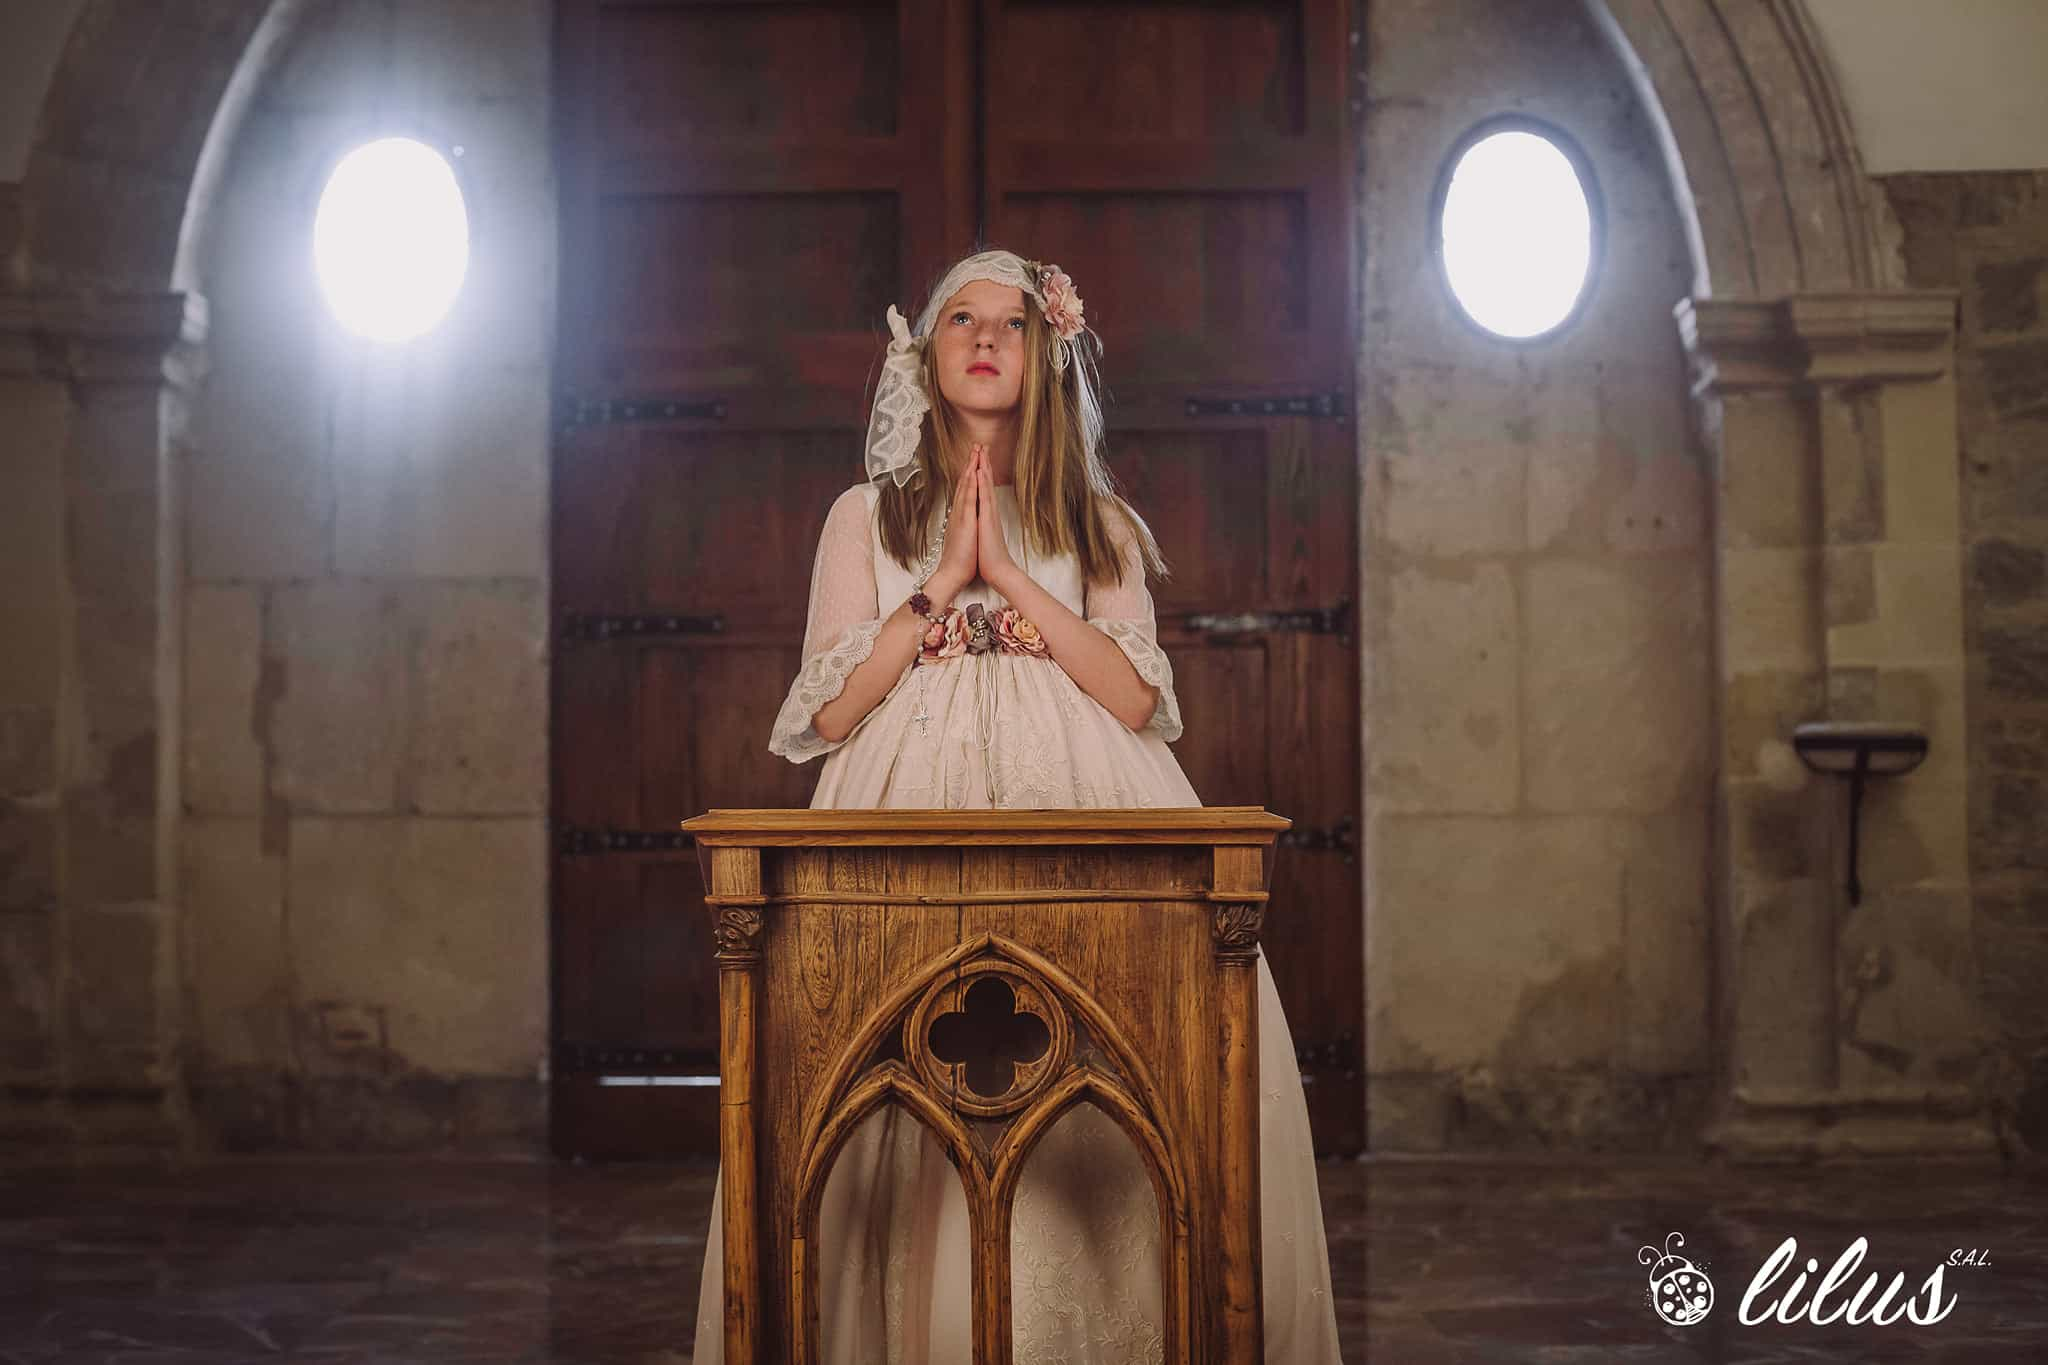
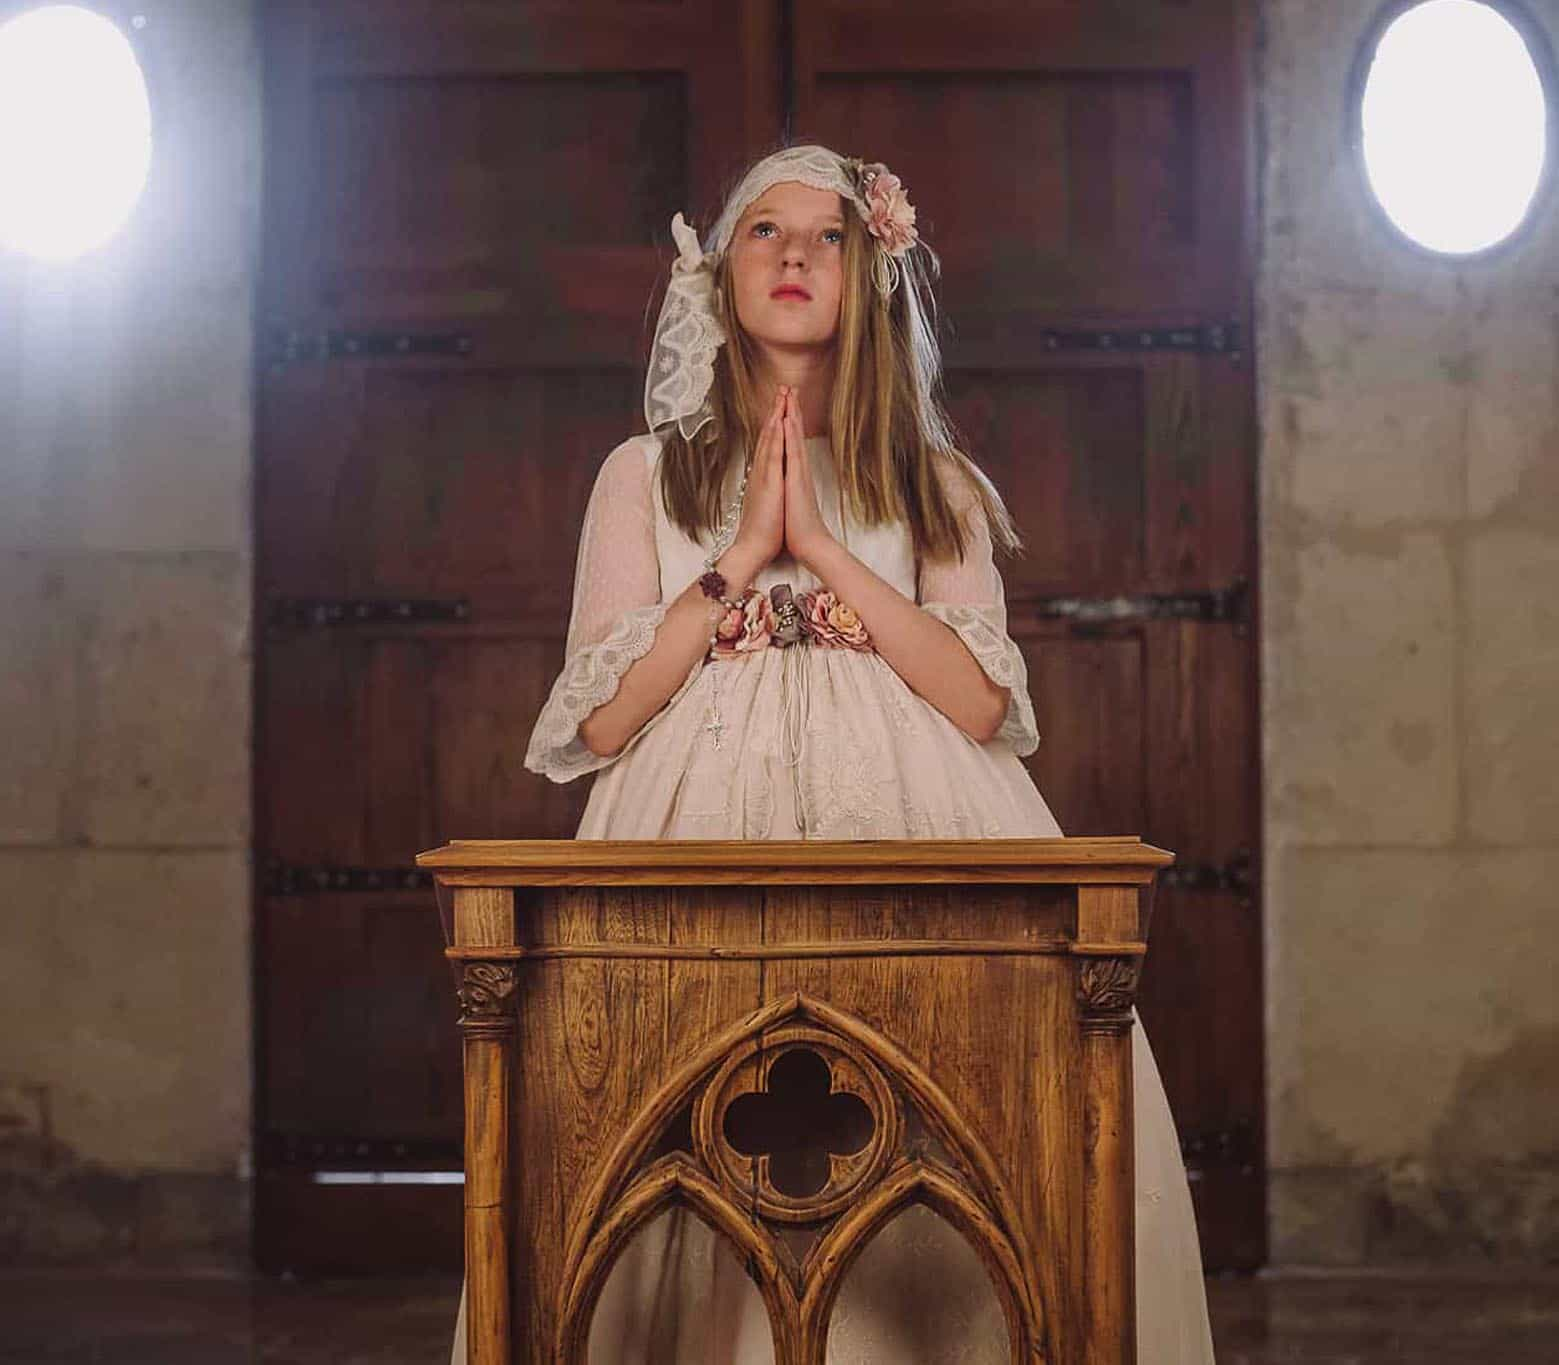
img

diff --git a/lilus/inicio/templates/inicio/base.html b/lilus/inicio/templates/inicio/base.html
@@ -63,7 +63,7 @@
 							{% endif %}
 						{% endfor %}
 						<!-- foto del menu -->
-						<div class="imagenMenu" style="background: url({% static 'inicio/img/portadaComunion.png'%}) no-repeat;background-size: cover; background-position: 40% center !important;"></div>
+						<div class="imagenMenu" style="background: url({% static 'inicio/img/portadaComunion.jpg'%}) no-repeat;background-size: cover; background-position: 40% center !important;"></div>
 					</div>
 				</ul>
 			</li>
